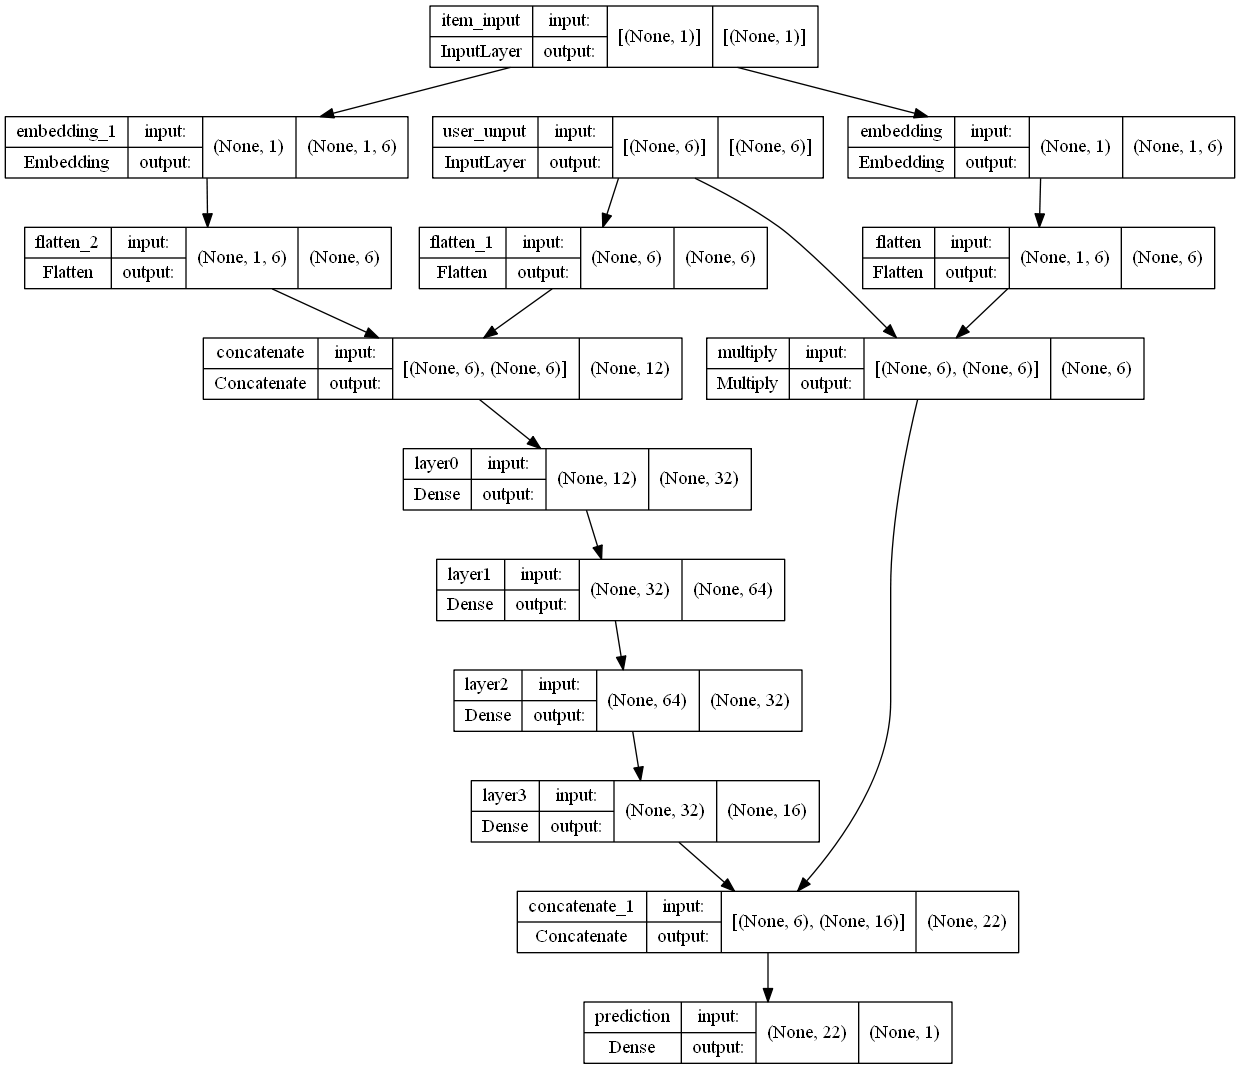
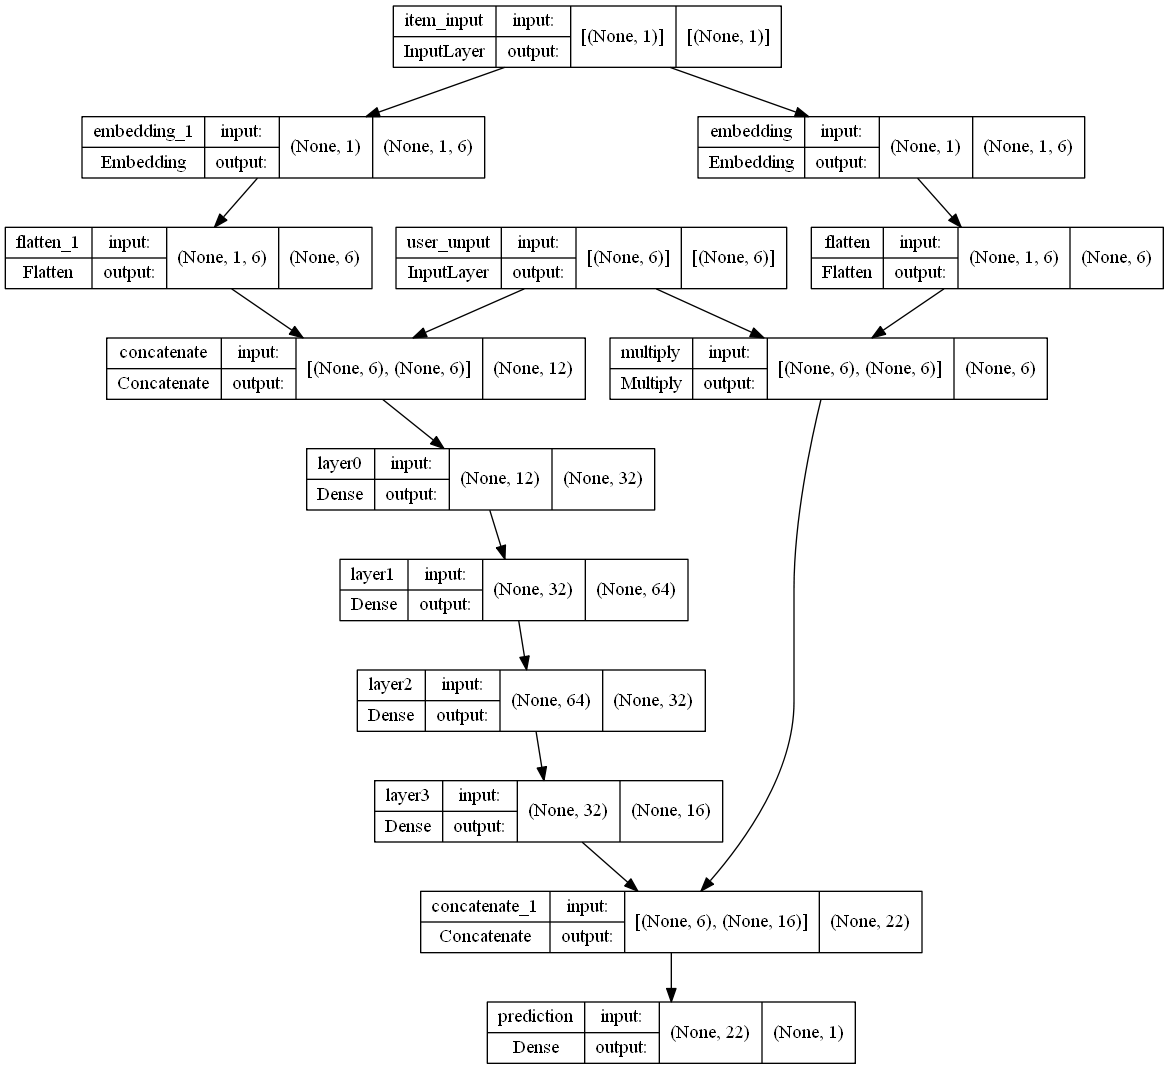
neural_collaborative_proto

diff --git a/curation/neural_collaborative/embedding.py b/curation/neural_collaborative/embedding.py
@@ -9,8 +9,8 @@ def embedding_model(num_users, num_items, layers=[32,64,32,16], reg_layers=[0]):
     
     num_layer = len(layers)
 
-    MF_embedding_item = Embedding(input_dim = num_items, output_dim = 6)
-    MLP_embedding_item = Embedding(input_dim = num_items, output_dim = 6) 
+    MF_embedding_item = Embedding(input_dim = num_items+1, output_dim = 6)
+    MLP_embedding_item = Embedding(input_dim = num_items+1, output_dim = 6) 
     
     user_input = Input(shape = (6,), dtype='float32', name='user_unput')
     item_input = Input(shape = (1,), dtype='int32', name='item_input')
@@ -22,18 +22,17 @@ def embedding_model(num_users, num_items, layers=[32,64,32,16], reg_layers=[0]):
     mf_vector = Multiply()([mf_user_latent, mf_item_latent])
     mf_vector = (mf_vector)
 
-    print("\n\n", mf_vector.shape)
     #MLP part
-    mlp_user_latent = Flatten()(user_input)
+    mlp_user_latent = (user_input)
     mlp_item_latent = Flatten()(MLP_embedding_item(item_input))
     mlp_vector = concatenate([mlp_user_latent,mlp_item_latent],axis = 1)
-    print("\n\n", mlp_vector.shape, "\n\n")
+
     for idx in range(0, num_layer):
         layer = Dense(layers[idx], activation='relu', name="layer%d" %idx)
         mlp_vector = layer(mlp_vector)
     
 
-    predict_vector = concatenate([mf_vector, mlp_vector])
+    predict_vector = concatenate([(mf_vector), mlp_vector])
     prediction = Dense(1, activation='sigmoid', name='prediction')(predict_vector)
     model = Model(inputs=[user_input, item_input], outputs=prediction)
     
@@ -64,22 +63,3 @@ def load_pretrain_model(model, gmf_model, mlp_model, num_layers):
     new_b = gmf_prediction[1] + mlp_prediction[1]
     model.get_layer('predictioin').set_weights([0.5*new_weights, 0.5*new_b])
     return model
-
-def get_train_instances(train, num_negatives):
-    user_input, item_input, labels = [] ,[], []
-    num_users = train.shape[0]
-    num_items = train.shape[1]
-    for(u, i) in train.keys():
-        #positive instance
-        user_input.append(u)
-        item_input.append(i)
-        labels.append(1)
-        #negative instances
-        for t in range(1,num_negatives):
-            j = np.random.randint(num_items)
-            while train.has_key((u, j)):
-                j = np.random.randint(num_items)
-            user_input.append(u)
-            item_input.append(j)
-            labels.append(0)
-    return user_input, item_input, labels

diff --git a/curation/neural_collaborative/train.py b/curation/neural_collaborative/train.py
@@ -1,10 +1,14 @@
+from matplotlib import pyplot as plt
 from user_info import input_bodyInfo
 from user_info import person
 from load_dataset import load_numpy_dataset
+from load_dataset import get_trainset
 import numpy as np
 from embedding import embedding_model
 import tensorflow as tf
 from tensorflow.keras.utils import plot_model
+import matplotlib.pyplot as plt
+import pandas as pd
 
 
 # name, height, weight, sex, age = input_bodyInfo()
@@ -13,15 +17,23 @@ from tensorflow.keras.utils import plot_model
 
 user_dataset = load_numpy_dataset('user')
 chest_list, chest_dataset = load_numpy_dataset('chest')
-lower_list, lower_dataset = load_numpy_dataset('lower')
-abdominals_list, abdominals_dataset = load_numpy_dataset('abdominals')
+# lower_list, lower_dataset = load_numpy_dataset('lower')
+# abdominals_list, abdominals_dataset = load_numpy_dataset('abdominals')
 num_chest_dataset = len(chest_dataset[0])
 num_user_dataset = len(user_dataset[0])
 
-print(chest_list)
+user_train_input, chest_train_input, chest_label = get_trainset(user_dataset, chest_list, chest_dataset)
+print(np.shape(user_train_input),np.shape(chest_train_input),np.shape(chest_label))
 
 model = embedding_model(num_user_dataset,num_chest_dataset)
 model.summary()
 plot_model(model, show_shapes=True)
 model.compile(optimizer='adam', loss='binary_crossentropy')
-history = model.fit([user_dataset, chest_dataset])
+history = model.fit([user_train_input, chest_train_input],chest_label, epochs=300, batch_size = 30)
+pd.Series(history.history['loss']).plot(logy=True)
+plt.xlabel("Epoch")
+plt.ylabel("Train Error")
+plt.show()
+
+model.save('model/curation_model.h5')
+

diff --git a/curation/neural_collaborative/load_dataset.py b/curation/neural_collaborative/load_dataset.py
@@ -15,6 +15,17 @@ def load_numpy_dataset(data):
         return loaded_dataset
     
     else:
-        exercise_list = np.array(loaded_dataset.columns[1:])
+        exercise_list = np.array(loaded_dataset.columns[1:],dtype = int)
         loaded_dataset = loaded_dataset.to_numpy()[:,1:]
         return exercise_list, loaded_dataset
+
+def get_trainset(user_profile, exercise, labeling):
+    user_input, item_input, labels = [],[],[]
+        
+    for i in range(len(user_profile[:,0])):
+        for j in range(len(exercise)):
+            user_input.append(user_profile[i,:])
+            item_input.append(exercise[j])
+            labels.append(labeling[i,j])
+    
+    return np.array(user_input), np.array(item_input), np.array(labels)
